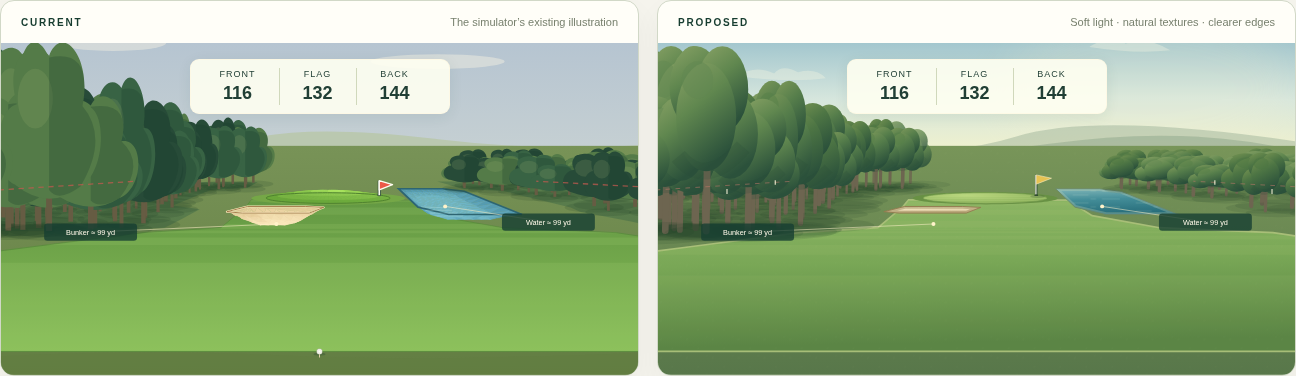
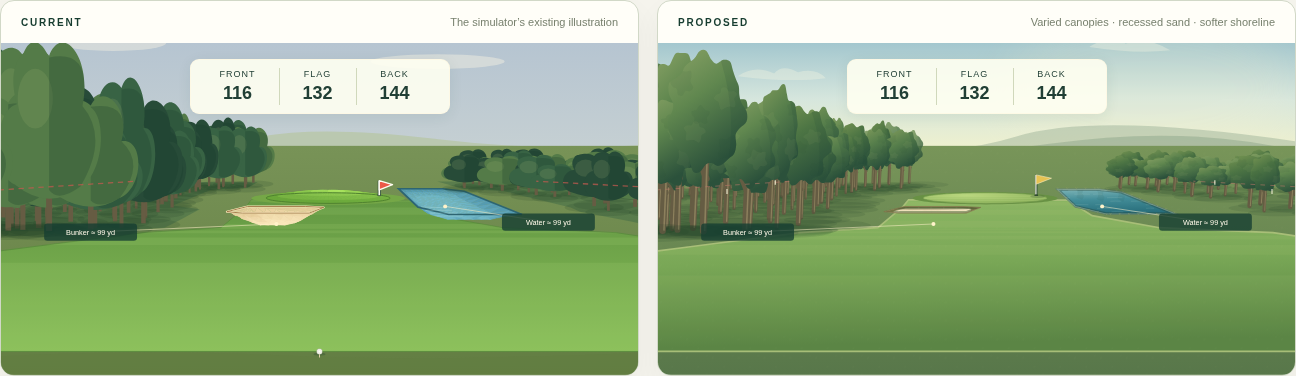
Refine prototype tree silhouettes and hazard depth

diff --git a/dist/visual-prototype.js b/dist/visual-prototype.js
@@ -6,16 +6,49 @@ import {greenYardages} from './guidance.js';
 // A fixed, read-only art study. No settings, score, random-bank or storage writes.
 const scene=generateScenario(SCENARIOS.find(s=>s.id==='tucked'),17),project=p=>projectSurface(scene,p,scene.elevationM),point=p=>{const a=project(p);return `${a.x.toFixed(2)},${a.y.toFixed(2)}`;},poly=points=>points.map(([x,y])=>point({x,y})).join(' ');
 const ellipse=(g,extra=0)=>Array.from({length:96},(_,i)=>{const a=i/96*Math.PI*2;return[g.x+Math.cos(a)*(g.rx+extra),g.y+Math.sin(a)*(g.ry+extra)];});
-function tree(p){const base=project(p),top=project({...p,z:p.height}),h=Math.max(3,base.y-top.y),w=Math.max(1,p.width*1000/(p.y+6)),tone=p.tone,v=Math.sin(p.x*3+p.y)*.12,colors=['#4b7542','#567f48','#618752'];
- return `<g transform="translate(${base.x.toFixed(2)},${base.y.toFixed(2)})" opacity="${p.y>180?.8:1}"><ellipse cx="${w*.6}" cy="3" rx="${w*1.5}" ry="${w*.2}" fill="#213d2920"/><path d="M0 0L${w*.05} ${-h*.75}M0 ${-h*.35}L${-w*.3} ${-h*.66}M0 ${-h*.42}L${w*.4} ${-h*.72}" stroke="#6d6550" stroke-width="${Math.max(1,w*.15)}" stroke-linecap="round" fill="none"/><g fill="url(#p-canopy${tone})"><ellipse cx="${-w*.52}" cy="${-h*.5}" rx="${w*.55}" ry="${h*.23}"/><ellipse cx="${w*.52}" cy="${-h*.52}" rx="${w*.6}" ry="${h*.24}"/><ellipse cx="${-w*.22}" cy="${-h*.77}" rx="${w*.57}" ry="${h*.22}"/><ellipse cx="${w*.35}" cy="${-h*.76}" rx="${w*.56}" ry="${h*.23}"/><ellipse cx="0" cy="${-h*.61}" rx="${w*.65}" ry="${h*.29}"/></g><ellipse cx="${-w*(.3+v)}" cy="${-h*.81}" rx="${w*.34}" ry="${h*.1}" fill="${colors[tone]}" opacity=".5"/><path d="M${-w*.6} ${-h*.4}Q0 ${-h*.22} ${w*.8} ${-h*.45}" fill="none" stroke="#264d35" stroke-opacity=".2" stroke-width="${h*.09}"/></g>`;
+// Smooth organic outlines with deterministic variation; no new tree positions.
+function closedCurve(points){const n=v=>v.toFixed(2);return points.map((p,i)=>{const a=points[(i+points.length-1)%points.length],b=points[(i+1)%points.length],c=points[(i+2)%points.length];return `${i?'':'M'+n(p[0])+','+n(p[1])}C${n(p[0]+(b[0]-a[0])/6)},${n(p[1]+(b[1]-a[1])/6)} ${n(b[0]-(c[0]-p[0])/6)},${n(b[1]-(c[1]-p[1])/6)} ${n(b[0])},${n(b[1])}`;}).join(' ')+'Z';}
+function tree(p,index){
+ const base=project(p),top=project({...p,z:p.height}),h=Math.max(3,base.y-top.y),w=Math.max(1,p.width*1000/(p.y+6)),phase=p.x*1.7+p.y*.13,tone=p.tone,wide=.83+.1*Math.sin(phase);
+ const crown=closedCurve(Array.from({length:40},(_,i)=>{const a=i/40*Math.PI*2,r=.87+.065*Math.sin(a*7+phase)+.045*Math.cos(a*11-phase);return [w*Math.cos(a)*r*wide,-h*.64+h*.35*Math.sin(a)*r];}));
+ const id='p-crown-'+index;
+ let out=`<g class="study-tree" transform="translate(${base.x.toFixed(2)},${base.y.toFixed(2)})" opacity="${p.y>180?.82:1}"><defs><clipPath id="${id}"><path d="${crown}"/></clipPath></defs><ellipse cx="${w*.6}" cy="3" rx="${w*1.4}" ry="${w*.16}" fill="#213d2920"/><path d="M${-w*.06} 0L${w*.04} ${-h*.72}M0 ${-h*.28}L${-w*.4} ${-h*.62}M0 ${-h*.4}L${w*.36} ${-h*.75}" stroke="#655c43" stroke-width="${Math.max(1,w*.15)}" stroke-linecap="round" fill="none"/><path d="M${-w*.03} 0L${w*.05} ${-h*.61}" stroke="#b3a477" stroke-width="${Math.max(.6,w*.035)}" opacity=".5"/><path d="${crown}" fill="url(#p-canopy${tone})"/><g clip-path="url(#${id})">`;
+ for(let j=0;j<5;j++){
+  const cx=Math.sin(phase+j*2.4)*w*.52,cy=-h*(.44+.09*j),rx=w*(.22+.07*Math.sin(phase+j)**2),ry=h*(.075+.018*Math.cos(j+phase));
+  const patch=closedCurve(Array.from({length:16},(_,k)=>{const a=k/16*Math.PI*2,r=.8+.17*Math.sin(a*5+j+phase);return[cx+Math.cos(a)*rx*r,cy+Math.sin(a)*ry*r];}));
+  out+=`<path d="${patch}" fill="${j%2?'#b4c17b':'#244c38'}" opacity="${j%2?.07:.08}"/>`;
+ }
+ return out+`<path d="M${w*.2} ${-h}Q${w*.8} ${-h*.6} ${w*.35} ${-h*.25}H${w*1.3}V${-h}Z" fill="#1e4934" opacity=".13"/></g></g>`;
 }
-function proposed(){let svg=`<svg xmlns="http://www.w3.org/2000/svg" viewBox="0 80 960 500" role="img" aria-label="Proposed illustrated woodland approach, same tucked hole and camera as the current view"><defs><linearGradient id="p-sky" gradientUnits="userSpaceOnUse" x1="0" y1="0" x2="0" y2="235"><stop stop-color="#73a9c0"/><stop offset=".7" stop-color="#d6e6dd"/><stop offset="1" stop-color="#edf0cf"/></linearGradient><linearGradient id="p-rough" x2="0" y2="1"><stop stop-color="#789559"/><stop offset="1" stop-color="#58774a"/></linearGradient><linearGradient id="p-fairway" x2=".25" y2="1"><stop stop-color="#91b967"/><stop offset=".5" stop-color="#79a756"/><stop offset="1" stop-color="#537f40"/></linearGradient><radialGradient id="p-green" cx=".35" cy=".25" r=".85"><stop stop-color="#b9d77e"/><stop offset="1" stop-color="#87ae57"/></radialGradient><linearGradient id="p-water" x1="0" y1="0" x2=".15" y2="1"><stop stop-color="#81b6b8"/><stop offset=".45" stop-color="#438d98"/><stop offset="1" stop-color="#286e7b"/></linearGradient><linearGradient id="p-sand" x2=".3" y2="1"><stop stop-color="#d5c092"/><stop offset=".25" stop-color="#f5e9c5"/><stop offset="1" stop-color="#ddca9e"/></linearGradient><pattern id="p-ripples" width="95" height="12" patternUnits="userSpaceOnUse"><path d="M4 3h27M55 9h24M82 3h8" stroke="#e2f4df" stroke-width=".8" opacity=".25"/></pattern><pattern id="p-grass" width="39" height="28" patternUnits="userSpaceOnUse"><path d="M4 24l1-3M21 9l1-2M34 20l1-2" stroke="#d8e5aa" stroke-width=".7" opacity=".05"/></pattern><pattern id="p-grain" width="19" height="13" patternUnits="userSpaceOnUse"><circle cx="3" cy="8" r=".6" fill="#bba77c" opacity=".23"/><circle cx="13" cy="3" r=".5" fill="#fff7db" opacity=".4"/></pattern><filter id="p-haze" x="-50%" y="-100%" width="200%" height="300%"><feGaussianBlur stdDeviation="30"/></filter><clipPath id="p-fairway-clip"><polygon points="${poly(scene.fairway)}"/></clipPath><clipPath id="p-green-clip"><polygon points="${poly(ellipse(scene.green))}"/></clipPath>${[0,1,2].map((n)=>`<linearGradient id="p-canopy${n}" x2=".45" y2="1"><stop stop-color="${['#789653','#819c5c','#8aa366'][n]}"/><stop offset=".45" stop-color="${['#4d7544','#567e4b','#60874f'][n]}"/><stop offset="1" stop-color="#2b513b"/></linearGradient>`).join('')}</defs><rect width="960" height="580" fill="url(#p-sky)"/><ellipse cx="740" cy="148" rx="220" ry="112" fill="#fdf4ce" opacity=".16" filter="url(#p-haze)"/><path d="M0 237Q140 206 280 232T540 221T960 228V310H0Z" fill="#8ca58b" opacity=".4"/><path d="M0 240Q175 223 280 242T590 232T960 242V300H0Z" fill="#718e73" opacity=".32"/><path d="M120 130q26-18 55-4q12-15 36-2q27-7 42 9q-54 7-133-3M650 86q29-19 55-5q31-12 67 10q-51 6-122-5" fill="#f6f7e2" opacity=".35"/><rect y="235" width="960" height="345" fill="url(#p-rough)"/><polygon points="${poly(scene.fairway)}" fill="url(#p-fairway)" stroke="#a8be78" stroke-width="2.5"/><g clip-path="url(#p-fairway-clip)">`;
+function hazardArt(h,i){
+ const points=poly(h.poly),screen=h.poly.map(([x,y])=>project({x,y})),minX=Math.min(...screen.map(p=>p.x)),maxX=Math.max(...screen.map(p=>p.x)),minY=Math.min(...screen.map(p=>p.y)),maxY=Math.max(...screen.map(p=>p.y)),cx=(minX+maxX)/2,cy=(minY+maxY)/2;
+ let out=`<g data-study-hazard="${h.kind}"><defs><clipPath id="p-hazard${i}"><polygon points="${points}"/></clipPath></defs><polygon data-hazard-boundary="${h.kind}" points="${points}" fill="url(#p-${h.kind==='water'?'water':'sand'})"/><g clip-path="url(#p-hazard${i})">`;
+ if(h.kind==='bunker'){
+  // A shaded upper face and inset sand basin, clipped to the exact hazard edge.
+  const basin=closedCurve(screen.map((p,j)=>[cx+(p.x-cx)*.79,cy+(p.y-cy)*.64+1.4+Math.sin(j)*.3]));
+  out+=`<polygon points="${points}" fill="#a48b58"/><path d="${basin}" fill="url(#p-sand)"/><path d="${basin}" fill="none" stroke="#f8edcb" stroke-width="2" opacity=".65"/><polygon points="${points}" fill="none" stroke="#4c6436" stroke-width="6" opacity=".55"/><path d="M${minX-10} ${minY+.8}Q${cx} ${minY+4.5} ${maxX+10} ${minY+1}" fill="none" stroke="#3c4e2b" stroke-width="4" opacity=".4"/><polygon points="${points}" fill="url(#p-grain)"/>`;
+  for(let y=minY+5;y<maxY;y+=3.5)out+=`<path d="M${cx-14} ${y}q12 .8 27 0" fill="none" stroke="#b7a579" stroke-width=".5" opacity=".23"/>`;
+ }else{
+  // Shadows, reflections and a shallow shelf stay inside the playable footprint.
+  out+=`<polygon points="${points}" fill="none" stroke="#243f32" stroke-width="7" opacity=".35"/><polygon points="${points}" fill="none" stroke="#a0b8a1" stroke-width="3.5" opacity=".6"/>`;
+  for(let j=0;j<6;j++){const x=minX+(maxX-minX)*(j/6),y=minY+(j%3)*1.2,depth=Math.max(5,(maxY-minY)*(.35+.05*j));out+=`<path d="M${x} ${y}q8 2 11 0l-2 ${depth*.4}q5 2 0 ${depth*.6}l-9-${depth*.25}q5-${depth*.4} 0-${depth*.75}Z" fill="#315b50" opacity=".11"/>`;}
+  for(let y=minY+3;y<maxY;y+=5.3){for(let j=0;j<3;j++){const shift=(Math.sin(y*2.7+j*3)+1)*.08*(maxX-minX),x=minX+(maxX-minX)*j*.3+shift,length=(maxX-minX)*(.06+.065*(Math.cos(y+j)**2));out+=`<path d="M${x} ${y}q${length*.5} -.6 ${length} 0" fill="none" stroke="#d7ece0" stroke-width=".65" opacity=".28"/>`;}}
+
+ }
+ out+=`</g><polygon points="${points}" fill="none" stroke="${h.kind==='water'?'#657f5d':'#7c7048'}" stroke-width="1"/>`;
+ if(h.kind==='water'){
+  // Low bank grasses break up the straight visual edge without moving it.
+  for(let j=0;j<screen.length;j++){const a=screen[j],b=screen[(j+1)%screen.length];for(let k=0;k<Math.hypot(a.x-b.x,a.y-b.y)/14;k++){const t=(k+.5)/Math.max(1,Math.hypot(a.x-b.x,a.y-b.y)/14),x=a.x+(b.x-a.x)*t,y=a.y+(b.y-a.y)*t;out+=`<path d="M${x} ${y}l-1.1-2.4m1.1 2.4l1.6-1.8" stroke="#879b65" stroke-width=".8" fill="none"/>`;}}
+ }
+ return out+'</g>';
+}
+function proposed(){let svg=`<svg xmlns="http://www.w3.org/2000/svg" viewBox="0 80 960 500" role="img" aria-label="Proposed illustrated woodland approach, same tucked hole and camera as the current view"><defs><linearGradient id="p-sky" gradientUnits="userSpaceOnUse" x1="0" y1="0" x2="0" y2="235"><stop stop-color="#73a9c0"/><stop offset=".7" stop-color="#d6e6dd"/><stop offset="1" stop-color="#edf0cf"/></linearGradient><linearGradient id="p-rough" x2="0" y2="1"><stop stop-color="#789559"/><stop offset="1" stop-color="#58774a"/></linearGradient><linearGradient id="p-fairway" x2=".25" y2="1"><stop stop-color="#91b967"/><stop offset=".5" stop-color="#79a756"/><stop offset="1" stop-color="#537f40"/></linearGradient><radialGradient id="p-green" cx=".35" cy=".25" r=".85"><stop stop-color="#b9d77e"/><stop offset="1" stop-color="#87ae57"/></radialGradient><linearGradient id="p-water" x1="0" y1="0" x2=".15" y2="1"><stop stop-color="#81b6b8"/><stop offset=".45" stop-color="#438d98"/><stop offset="1" stop-color="#286e7b"/></linearGradient><linearGradient id="p-sand" x2=".3" y2="1"><stop stop-color="#c9b17a"/><stop offset=".45" stop-color="#eee1b9"/><stop offset="1" stop-color="#faedc8"/></linearGradient><pattern id="p-ripples" width="95" height="12" patternUnits="userSpaceOnUse"><path d="M4 3h27M55 9h24M82 3h8" stroke="#e2f4df" stroke-width=".8" opacity=".25"/></pattern><pattern id="p-grass" width="39" height="28" patternUnits="userSpaceOnUse"><path d="M4 24l1-3M21 9l1-2M34 20l1-2" stroke="#d8e5aa" stroke-width=".7" opacity=".05"/></pattern><pattern id="p-grain" width="19" height="13" patternUnits="userSpaceOnUse"><circle cx="3" cy="8" r=".6" fill="#bba77c" opacity=".23"/><circle cx="13" cy="3" r=".5" fill="#fff7db" opacity=".4"/></pattern><filter id="p-haze" x="-50%" y="-100%" width="200%" height="300%"><feGaussianBlur stdDeviation="30"/></filter><clipPath id="p-fairway-clip"><polygon points="${poly(scene.fairway)}"/></clipPath><clipPath id="p-green-clip"><polygon points="${poly(ellipse(scene.green))}"/></clipPath>${[0,1,2].map((n)=>`<linearGradient id="p-canopy${n}" x2=".45" y2="1"><stop stop-color="${['#789653','#819c5c','#8aa366'][n]}"/><stop offset=".45" stop-color="${['#4d7544','#567e4b','#60874f'][n]}"/><stop offset="1" stop-color="#2b513b"/></linearGradient>`).join('')}</defs><rect width="960" height="580" fill="url(#p-sky)"/><ellipse cx="740" cy="148" rx="220" ry="112" fill="#fdf4ce" opacity=".16" filter="url(#p-haze)"/><path d="M0 237Q140 206 280 232T540 221T960 228V310H0Z" fill="#8ca58b" opacity=".4"/><path d="M0 240Q175 223 280 242T590 232T960 242V300H0Z" fill="#718e73" opacity=".32"/><path d="M120 130q26-18 55-4q12-15 36-2q27-7 42 9q-54 7-133-3M650 86q29-19 55-5q31-12 67 10q-51 6-122-5" fill="#f6f7e2" opacity=".35"/><rect y="235" width="960" height="345" fill="url(#p-rough)"/><polygon points="${poly(scene.fairway)}" fill="url(#p-fairway)" stroke="#a8be78" stroke-width="2.5"/><g clip-path="url(#p-fairway-clip)">`;
  for(let y=0;y<scene.maxY;y+=16)svg+=`<polygon points="${poly([[-180,y],[180,y],[180,y+8],[-180,y+8]])}" fill="#c4d887" opacity=".075"/>`;
  svg+='</g><rect y="235" width="960" height="345" fill="url(#p-grass)"/>';
  svg+=`<polygon points="${poly(ellipse(scene.green,2.1))}" fill="#689144"/><polygon points="${poly(ellipse(scene.green))}" fill="url(#p-green)" stroke="#72984c" stroke-width="1"/><g clip-path="url(#p-green-clip)">`;
  for(let y=scene.green.y-scene.green.ry;y<scene.green.y+scene.green.ry;y+=5)svg+=`<polygon points="${poly([[-180,y],[180,y],[180,y+2.5],[-180,y+2.5]])}" fill="#def0a4" opacity=".11"/>`;
  svg+='</g>';
- for(const [i,h]of scene.hazards.filter(h=>['water','bunker'].includes(h.kind)).entries()){const points=poly(h.poly);svg+=`<defs><clipPath id="p-hazard${i}"><polygon points="${points}"/></clipPath></defs><polygon points="${points}" fill="url(#p-${h.kind==='water'?'water':'sand'})"/><g clip-path="url(#p-hazard${i})"><polygon points="${points}" fill="none" stroke="${h.kind==='water'?'#c4d4b4':'#826e3e'}" stroke-opacity="${h.kind==='water'?.3:.4}" stroke-width="${h.kind==='water'?7:7}"/><polygon points="${points}" fill="url(#p-${h.kind==='water'?'ripples':'grain'})"/></g><polygon points="${points}" fill="none" stroke="${h.kind==='water'?'#6c8864':'#927b4f'}" stroke-width="1.4"/>`;}
+ svg+=scene.hazards.filter(h=>['water','bunker'].includes(h.kind)).map(hazardArt).join('');
  // All trees retain their existing world position, height and corridor spacing.
  svg+=vegetation(scene,'woodland').map(tree).join('');
  for(const x of scene.bounds){const a=project({x,y:25}),b=project({x,y:scene.maxY});svg+=`<path d="M${a.x} ${a.y}L${b.x} ${b.y}" stroke="#bf786a" stroke-width="1.4" stroke-dasharray="7 8" opacity=".6"/>`;}

diff --git a/dist/visual-prototype.html b/dist/visual-prototype.html
@@ -1,8 +1,8 @@
 <!doctype html><html lang="en"><head><meta charset="utf-8"><meta name="viewport" content="width=device-width,initial-scale=1"><meta name="theme-color" content="#f5f4ed"><title>Course illustration study · Target Practice</title><link rel="stylesheet" href="visual-prototype.css"></head><body>
-<header><a href="index.html" aria-label="Back to Target Practice"><img src="assets/target-practice-logo.png" alt="Target Practice"></a><span class="study-label">COURSE ILLUSTRATION · STUDY 01</span><a class="back" href="index.html">Back to simulator ↗</a></header>
+<header><a href="index.html" aria-label="Back to Target Practice"><img src="assets/target-practice-logo.png" alt="Target Practice"></a><span class="study-label">COURSE ILLUSTRATION · STUDY 02</span><a class="back" href="index.html">Back to simulator ↗</a></header>
 <main><section class="intro"><div><p class="eyebrow">A WOODLAND APPROACH</p><h1>A clearer view of the shot.</h1><p class="lede">Softer light, richer greens, reflective water, and trees with more depth. An illustrated course that makes the decision easier to read.</p></div><p class="prototype-note">Visual prototype<br><span>A fixed example for review. Your saved rounds and shot settings stay untouched.</span></p></section>
 <section class="review-controls" aria-label="Compare illustration styles"><div class="switch" role="group" aria-label="Illustration style"><button id="proposedButton" aria-pressed="true">Proposed</button><button id="currentButton" aria-pressed="false">Current</button><button id="compareButton" aria-pressed="false">Compare both</button></div><div class="options"><label><input id="labelsToggle" type="checkbox" checked> Distance labels</label><label><input id="aimToggle" type="checkbox"> Aim marker</label><button id="zoomButton" class="quiet" aria-pressed="false">Close-up ⊕</button></div></section>
-<section id="comparison" class="comparison" aria-label="Course illustration comparison"><article id="currentPanel" class="course-card" hidden><div class="card-heading"><span>CURRENT</span><p>The simulator’s existing illustration</p></div><div class="scene-wrap"><div id="currentScene" class="scene" aria-busy="true"><p class="loading">Loading current illustration…</p></div><div class="yardages" data-yardages></div></div></article><article id="proposedPanel" class="course-card"><div class="card-heading"><span>PROPOSED</span><p>Soft light · natural textures · clearer edges</p></div><div class="scene-wrap"><div id="proposedScene" class="scene"></div><div class="yardages" data-yardages></div></div></article></section>
+<section id="comparison" class="comparison" aria-label="Course illustration comparison"><article id="currentPanel" class="course-card" hidden><div class="card-heading"><span>CURRENT</span><p>The simulator’s existing illustration</p></div><div class="scene-wrap"><div id="currentScene" class="scene" aria-busy="true"><p class="loading">Loading current illustration…</p></div><div class="yardages" data-yardages></div></div></article><article id="proposedPanel" class="course-card"><div class="card-heading"><span>PROPOSED</span><p>Varied canopies · recessed sand · softer shoreline</p></div><div class="scene-wrap"><div id="proposedScene" class="scene"></div><div class="yardages" data-yardages></div></div></article></section>
 <p id="viewStatus" class="view-status" role="status">Showing the proposed illustration.</p>
-<section class="details"><div><span class="number">01</span><h2>A green that reads as turf</h2><p>A distinct fringe and subtle mowing replace the concentric shading. The flag stays easy to find.</p></div><div><span class="number">02</span><h2>Hazards with material and depth</h2><p>Quiet reflections on the water; warm sand and a shaded bunker lip. Edges remain clear without bright outlines.</p></div><div><span class="number">03</span><h2>A fuller woodland setting</h2><p>Varied canopies, shaded trunks, and a hazy tree line add depth while leaving the playing corridor visible.</p></div></section>
+<section class="details"><div><span class="number">01</span><h2>A green that reads as turf</h2><p>A distinct fringe and subtle mowing replace the concentric shading. The flag stays easy to find.</p></div><div><span class="number">02</span><h2>Hazards with material and depth</h2><p>Quiet reflections on the water; warm sand and a shaded bunker lip. Edges remain clear without bright outlines.</p></div><div><span class="number">03</span><h2>A fuller woodland setting</h2><p>Irregular canopies, shaded branches, and a hazy tree line add depth while leaving the playing corridor visible.</p></div></section>
 <footer><p><strong>For this review:</strong> Which style makes the green, water, bunker, and flag easiest to read—especially on your phone?</p><p>The two views share the same hole geometry and camera projection. Hazard labels are approximate direct distances to the nearest edge, before wind or roll. This page does not simulate or score shots. The optional aim marker is a visual reference, not a recommended target.</p></footer></main><script type="module" src="visual-prototype.js"></script></body></html>

diff --git a/docs/COURSE-VISUAL-PROTOTYPE.md b/docs/COURSE-VISUAL-PROTOTYPE.md
@@ -1,4 +1,4 @@
-# Course illustration study 01
+# Course illustration study 02
 
 Open visual-prototype.html on the static site. This is a separate read-only page; the simulator's renderer, model, scoring and stored data are unchanged. It does not add a main-menu item or replace the live course graphics.
 
@@ -16,3 +16,6 @@ Review the visibility of the flag, green, water, sand and boundaries on a phone 
 Validation: syntax checks and isolated Chromium checks at 1440, 390 and 320px cover both views, compare mode, close-up, label/aim toggles, no horizontal overflow, no uncaught page errors and unchanged browser storage. No full simulation suite was rerun because no existing application files or calculations changed. The added browser check is scripts/browser-review/visual-prototype.cjs (use the same Playwright/base-URL environment variables as the other browser checks).
 
 To preview through Work, provide the complete repository ZIP and ask it to serve visual-prototype.html alongside the existing app. Do not replace index.html with the prototype. The screenshots can be reviewed on GitHub without deploying anything.
+
+
+Second refinement: irregular smooth canopy outlines now vary deterministically by existing tree position, with restrained interior foliage shading and visible branches. Sand uses a clipped inset basin and darker upper lip. Water uses broken ripples, soft reflection shapes, a shallow edge and low bank grasses. All material detail is clipped to the original hazard polygons; the cosmetic bank grasses do not change the modeled edge. Screen-coordinate paths use two-decimal precision to keep the static SVG compact. Browser verification also checks the exact hazard boundary point strings against the original scene projection and preserves the existing tree count. The simulator renderer is still unchanged.
